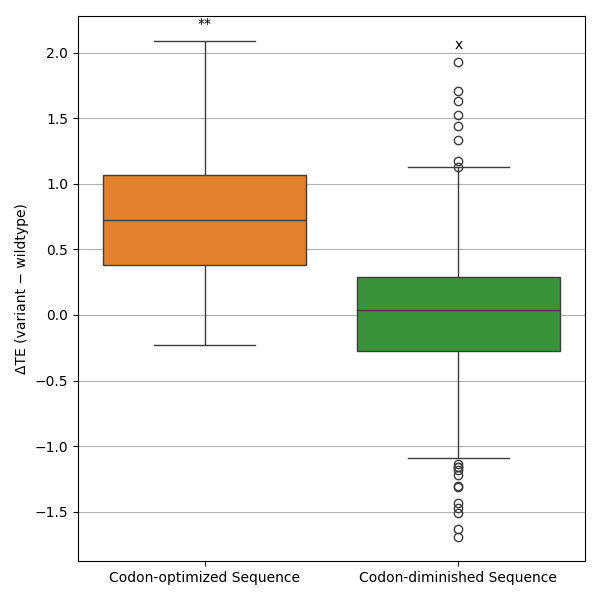
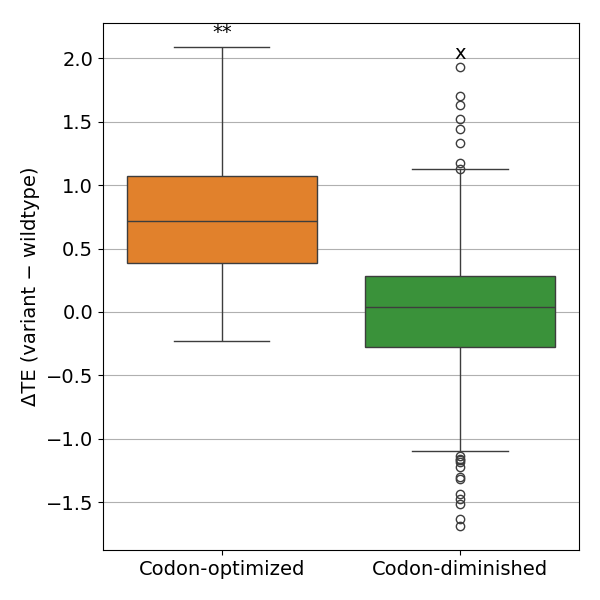
codon plots bigger font

diff --git a/figure_scripts/codon_optimality_plot.py b/figure_scripts/codon_optimality_plot.py
@@ -5,6 +5,8 @@ from scipy import stats
 
 from utils.plotting import bonferroni_correct, sig_label
 
+plt.rcParams.update({'font.size': 14})
+
 #df = pd.read_csv("./outputs/codon_test/codon_test_results.csv")
 df = pd.read_csv("/scratch/izar/gabboud/mRNABERT/outputs/codon_analysis_all_sequences/codon_test_results.csv")
 
@@ -14,19 +16,22 @@ variants["baseline_TE"] = variants["tx_id"].map(baseline)
 variants["delta_TE"] = variants["predicted_mean_TE"] - variants["baseline_TE"]
 
 mapping_for_plot = {
-    "wildtype": "Wildtype Sequence",
-    "optimal": "Codon-optimized Sequence",
-    "least_optimal": "Codon-diminished Sequence"
+    "wildtype": "Wildtype",
+    "optimal": "Codon-optimized",
+    "least_optimal": "Codon-diminished"
 }
 variants["variant_type_plot"] = variants["variant_type"].map(mapping_for_plot)
 df["variant_type_plot"] = df["variant_type"].map(mapping_for_plot)
 
 plot_order = [
-    "Wildtype Sequence",
-    "Codon-optimized Sequence",
-    "Codon-diminished Sequence",
+    "Wildtype",
+    "Codon-optimized",
+    "Codon-diminished",
 ]
 palette = dict(zip(plot_order, sns.color_palette(n_colors=len(plot_order))))
+
+print(df.groupby("variant_type_plot")["CAI"].mean())
+print(variants.groupby("variant_type_plot")["delta_TE"].mean())
 
 #histogram of CAI
 plt.figure(figsize=(8,6))
@@ -57,7 +62,7 @@ p_values = bonferroni_correct(raw_p_values)
 for i, (variant_type, p_value) in enumerate(zip(box_order, p_values)):
     deltas = variants.loc[variants["variant_type_plot"] == variant_type, "delta_TE"].dropna()
     box_top = deltas.max()
-    ax.text(i, box_top + 0.02 * y_range, sig_label(p_value), ha="center", va="bottom")
+    ax.text(i, box_top + 0.01 * y_range, sig_label(p_value), ha="center", va="bottom")
 
 plt.xlabel("")
 plt.ylabel("ΔTE (variant − wildtype)")